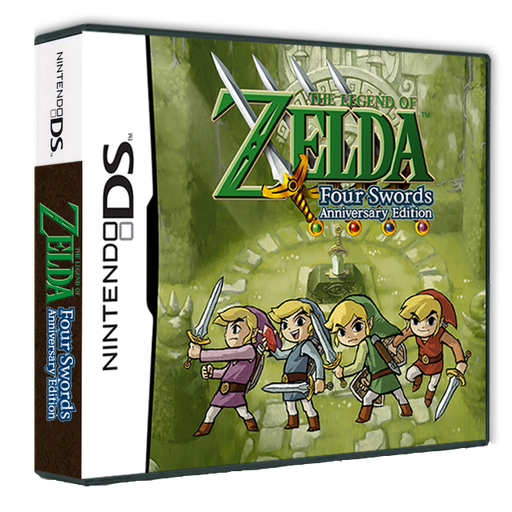
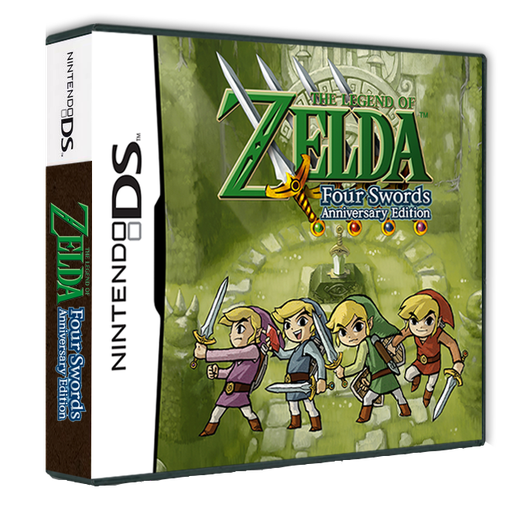
Add generated GBA and NDS covers

Changed region(s): [[0.0625, 0.0312, 0.9688, 0.9688], [0.4375, 0.4062, 0.4688, 0.4375], [0.4062, 0.9062, 0.4375, 0.9375]]

diff --git a/NDS_Square/README.md b/NDS_Square/README.md
@@ -4,10 +4,11 @@
 
 规则：优先保留原图本身就是正方形的封面；其他图片使用开源 SmartCrop.py 选择内容较重要的方形区域。自动裁切不是完美的人物识别，仍可能需要人工检查。
 
-**统计：0 张原图本身为正方形（未裁切画面）；18 张从原版比例封面裁切。**
+**统计：0 张原图本身为正方形；1 张为近方形（均保留完整画面并轻微统一尺寸）；17 张从原版比例封面裁切。**
 
-## 原图本身为正方形：未裁切画面
+## 原图方图 / 近方图：保留完整画面
 
+- **塞尔达传说四支剑 25周年纪念版(简)(Monado汉化组)(108Mb).png** — 662×640；保留近方形，轻微统一比例社区替代封面。未找到原版零售盒绘；使用社区制作的封面图，不属于官方原版实体盒绘。
 
 ## 从原版比例封面裁切
 
@@ -18,7 +19,6 @@
 - **北欧女神 负罪者 V2(JP)(ACG汉化组)(1024Mb).png** — 原图 512×456；从对应原版比例封面裁切。来源：Valkyrie Profile - Toga o Seou Mono (Japan).png
 - **塞尔达传说 大地的汽笛(简)1.1(US)(FCU汉化组和兔友汉化组)(1024Mb).png** — 原图 512×458；从对应原版比例封面裁切。来源：Legend of Zelda, The - Spirit Tracks (USA) (En,Fr,Es).png
 - **塞尔达传说 幻影沙漏 修正版(简)(JP)(巴士汉化组)(512Mb).png** — 原图 512×462；从对应原版比例封面裁切。来源：Zelda no Densetsu - Mugen no Sunadokei (Japan).png
-- **塞尔达传说四支剑 25周年纪念版(简)(Monado汉化组)(108Mb).png** — 原图 662×640；从对应原版比例封面裁切。来源：https://images.launchbox-app.com/074d3405-6de6-48a5-8d51-b03596ae607b.png
 - **大剑 银眼的魔女(JP)(CG汉化组)(1024Mb).png** — 原图 512×457；从对应原版比例封面裁切。来源：Claymore - Gingan no Majo (Japan).png
 - **守护甜心！兴高采烈！甜心旋律(JP)(兔友汉化组)(1024Mb).png** — 原图 500×450；从对应原版比例封面裁切。来源：Shugo Chara! - Nori Nori! CharanaRhythm (Japan).png
 - **恋爱布丁 恋爱大冒险！(JP)(SOMA汉化组)(256Mb).png** — 原图 512×460；从对应原版比例封面裁切。来源：Koisuru Purin! - Koi wa Daibouken! Dr. Kanmi no Yabou! (Japan).png
